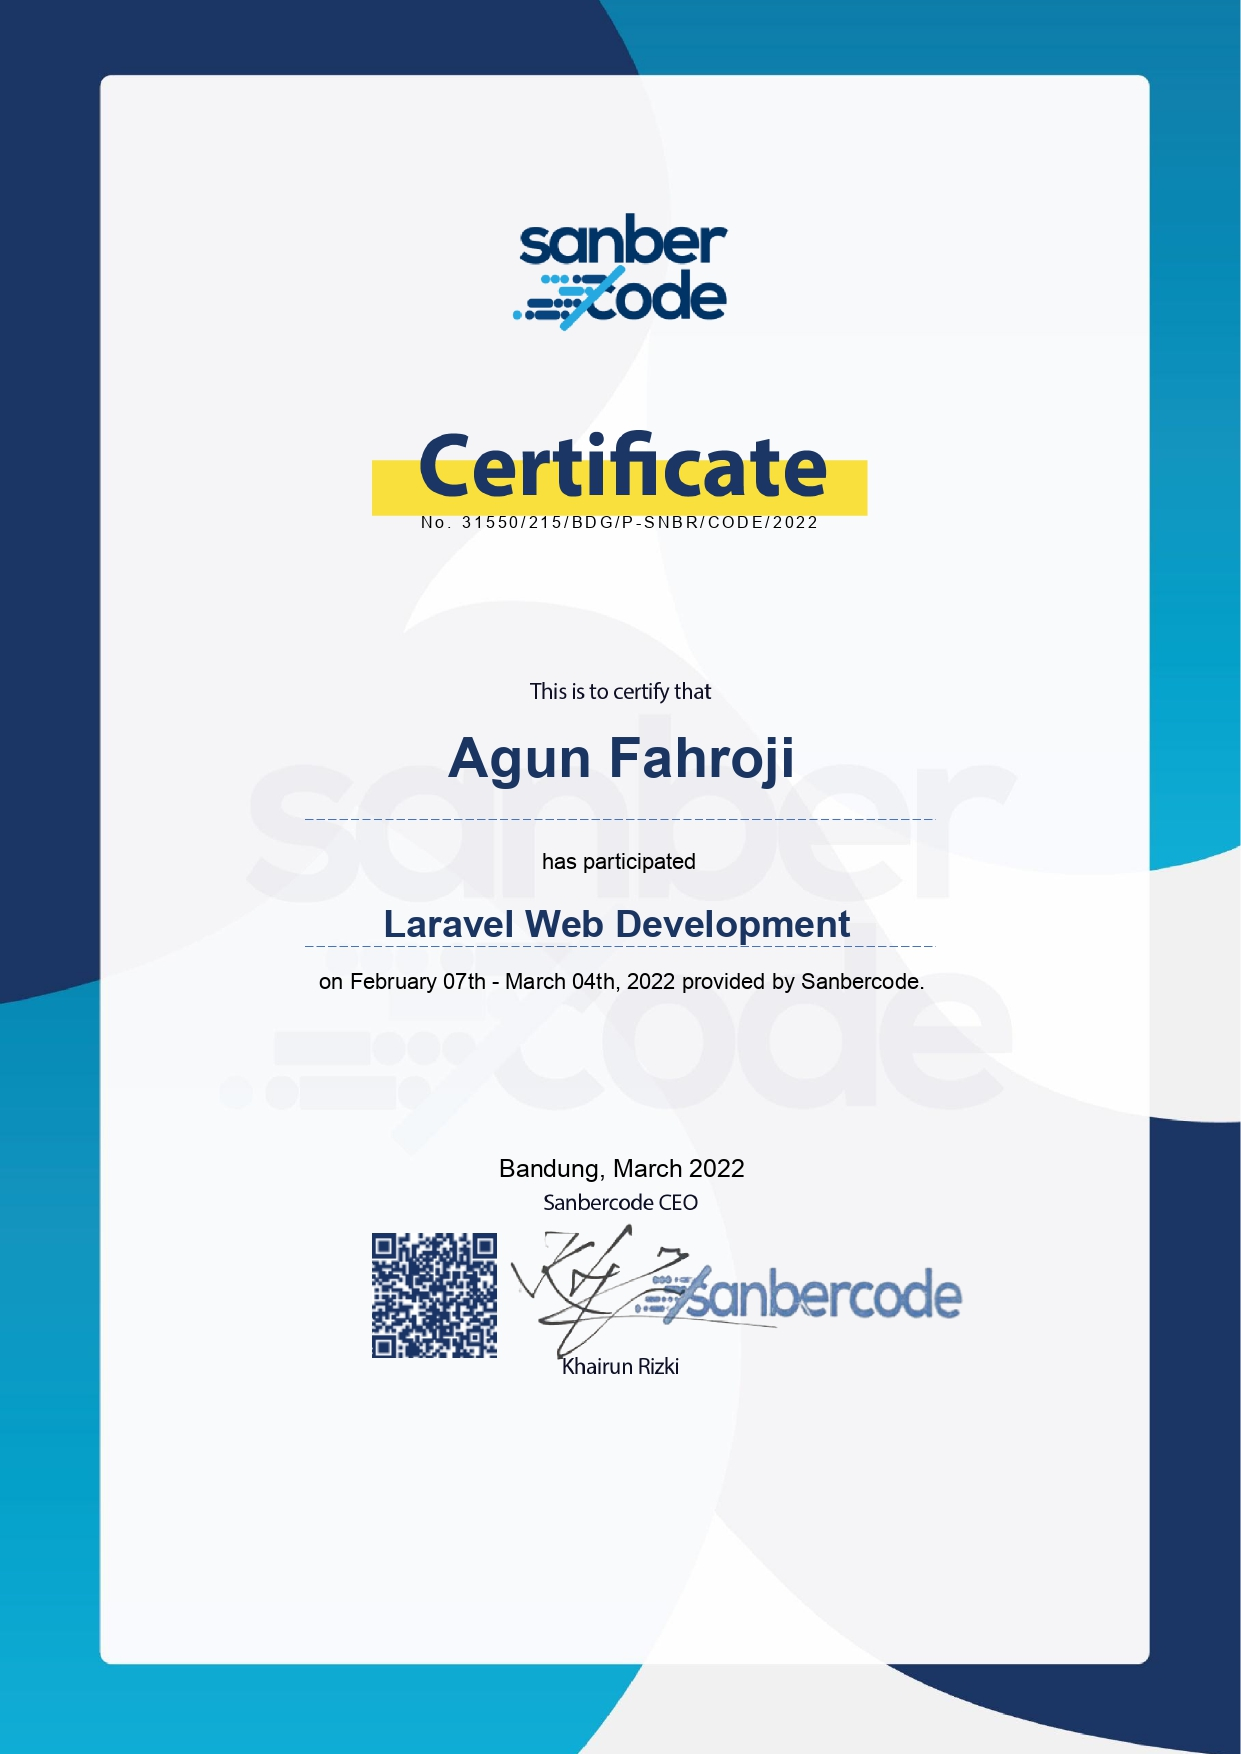
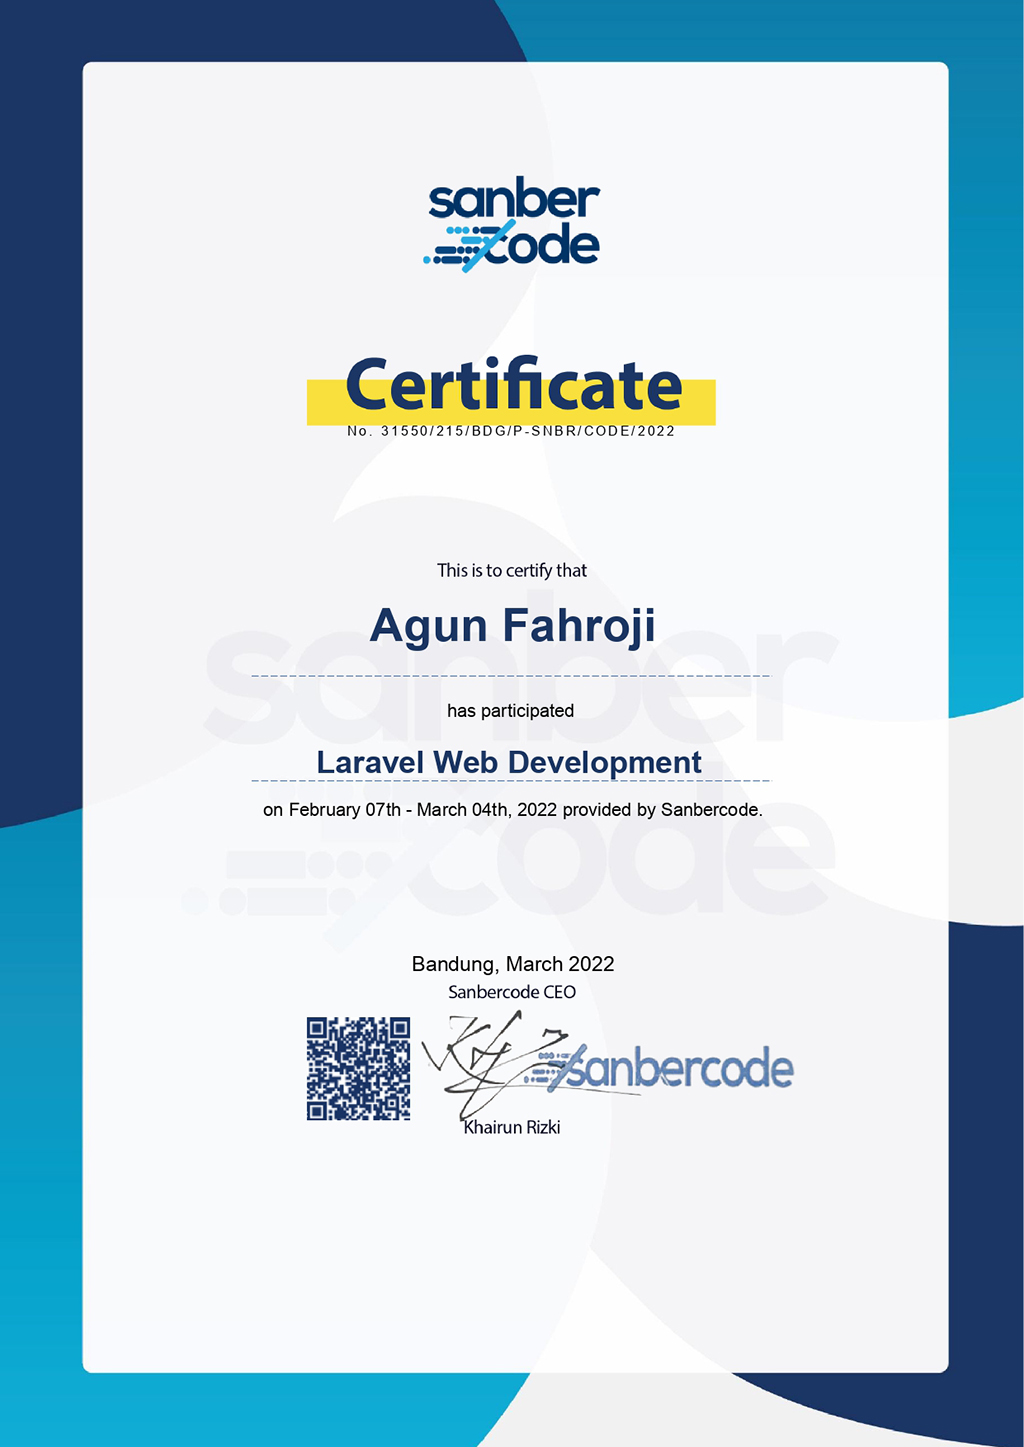
resize gambar

Changed region(s): [[0.3125, 0.7153, 0.4062, 0.7775], [0.625, 0.2799, 0.6562, 0.311], [0.4375, 0.1555, 0.4688, 0.1866]]

diff --git a/index.html b/index.html
@@ -25,7 +25,7 @@
     <!-- navbar -->
     <nav class="navbar navbar-expand-lg navbar-light bg-trasparent mt-3">
         <div class="container">
-            <a class="navbar-brand fw-bold" href="#">AF</a>
+            <a class="navbar-brand fw-bold" href="index.html">AF</a>
             <button class="navbar-toggler" type="button" data-bs-toggle="collapse" data-bs-target="#navbarNav" aria-controls="navbarNav" aria-expanded="false" aria-label="Toggle navigation">
             <span class="navbar-toggler-icon"></span>
             </button>
@@ -80,7 +80,7 @@
                 </div>
             </div>
             <div class="row">
-                <div class="col-xl-10 col-md-12 offset-xl-1">
+                <div class="col-xl-10 col-md-12 mt-3 offset-xl-1">
                     <p>
                         Saya Agun Fahroji, Selamat datang di web portfolio pertama Saya. Saya adalah seorang mahasiswa di Universitas Mercu Buana. Sebelumnya saya ucapka Terima kasih sudah mau berkunjung ke website ini. Terima kasih juga untuk yang sudah mendukung saya, semoga
                         saya bisa menjadi lebih baik lagi dan bisa menciptakan karya-karya lainnya di dunia digital. Di era 4.0 masa kini sekarang tentu kita sudah tidak asing lagi dengan internet, dimana kita bisa menemukan apa yang kita cari di internet,
